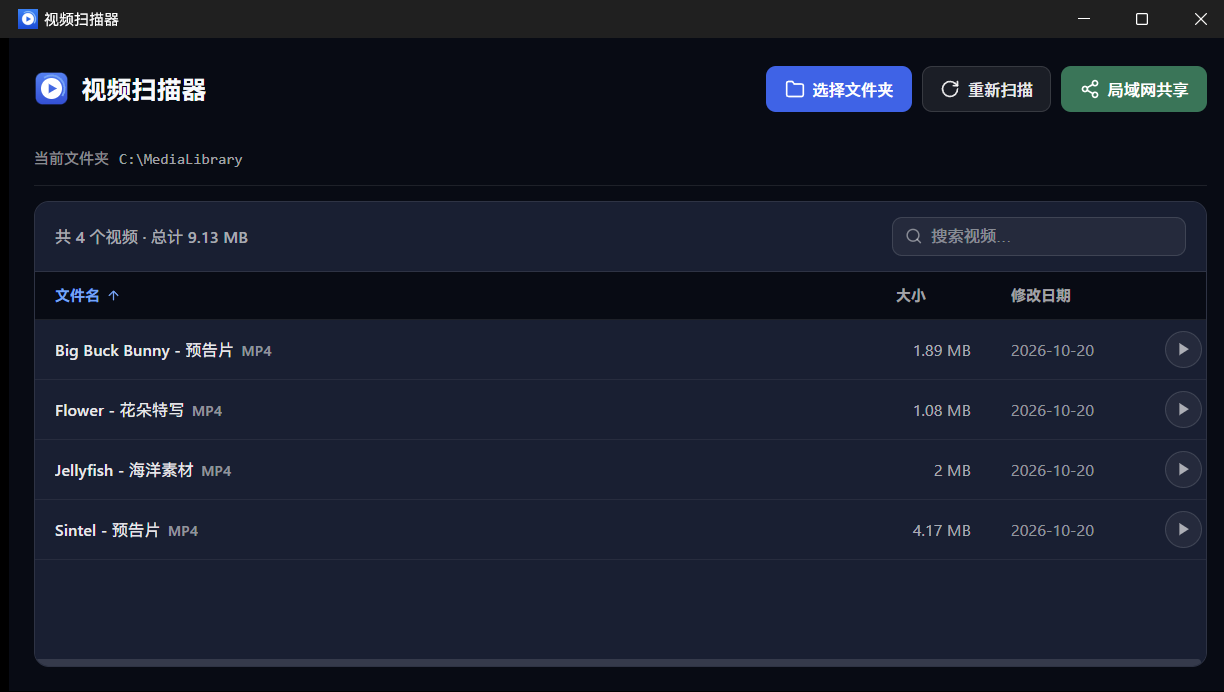
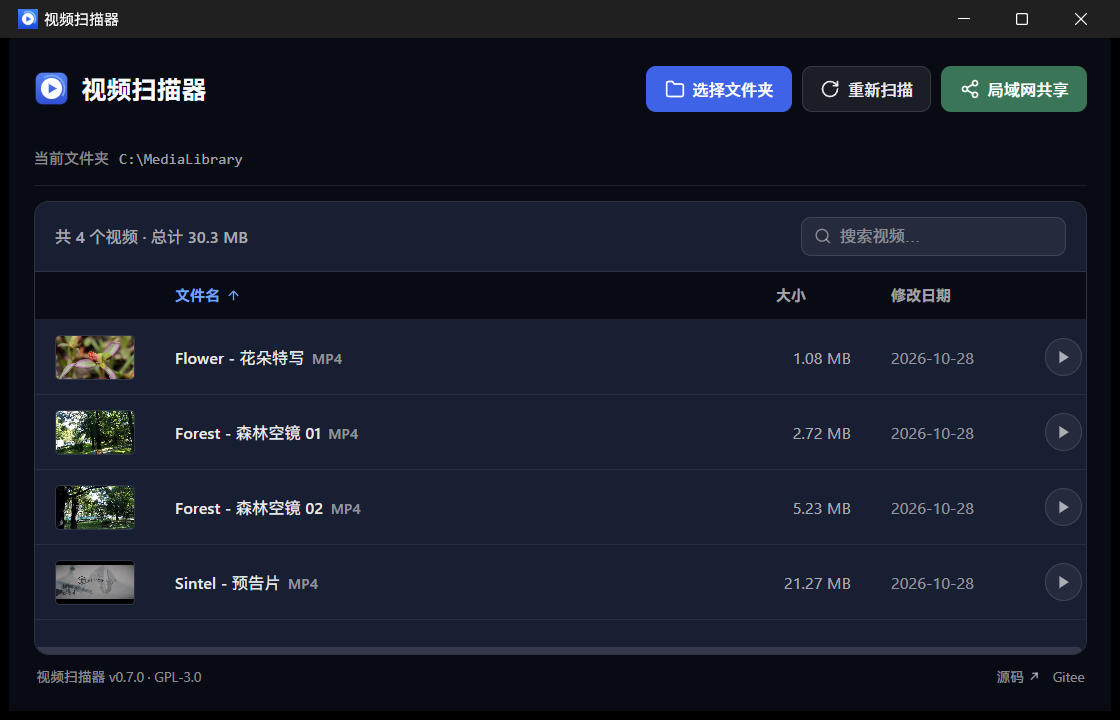
文档：更新界面截图（缩略图列 / 地址排序 / 新素材）
desktop / share / mobile 三张重截：
- 列表多了缩略图列，行高 48→60、窄屏 84→96；
- 共享面板展示了 5 个地址，默认选中默认路由那条（192.168.31.38）；
- 素材换成可公开分发的示例（MDN 的 Flower / Sintel、samplelib 空镜），
  README 里的素材来源声明同步更新。

player / login 两张内容未变，保留原图。

diff --git a/README.md b/README.md
@@ -17,9 +17,9 @@
 |:---:|:---:|
 | ![网页端播放《Big Buck Bunny》：应用内直接播放，可拖动进度条](docs/screenshot-player.jpg) | ![登录页：4 位数字键盘](docs/screenshot-login.png) |
 
-> 截图中的四个视频都是 **Blender 开放电影计划**等渠道的 CC 授权短片
-> （Big Buck Bunny、Sintel、Jellyfish、Flower），共享地址为示例值，
-> 与真实网络环境无关。
+> 截图中的视频为公开示例素材：Flower 与 Sintel 来自 MDN 的 CC 授权示例
+> （Sintel 为 Blender 开放电影），Forest 空镜为 samplelib.com 的演示片段。
+> 共享地址为示例值，与真实网络环境无关。
 
 ## 下载
 
